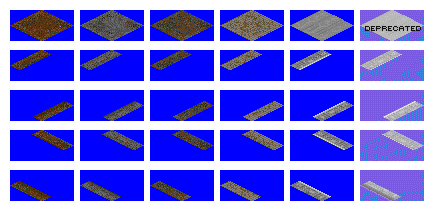
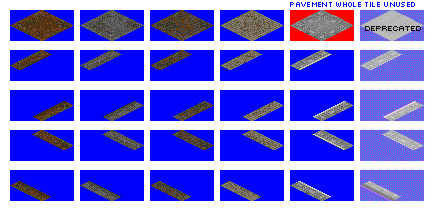
Codechange: force base set pavement tile for town non-track stations

Changed region(s): [[0.65, 0.0, 0.9455, 0.1909]]

diff --git a/src/station.py b/src/station.py
@@ -519,3 +519,11 @@ class SpriteLayout(object):
     @property
     def main_structure_sprites(self):
         return self.get_sprites_by_orientation(self._main_structure_sprites)
+
+    def get_nml_declaration_for_ground_sprite_whole_tile(self):
+        # as of September 2023 this is quite JFDI, there might be other cases for using base set sprites, but it was TMWFTLB to make generic
+        if self.facility_type.metaclass in ["town"]:
+            # hard-coded to pavement sprite from base set
+            return 1420
+        else:
+            return "spriteset_ground(LOAD_TEMP(" + str(global_constants.graphics_temp_storage["var_sprite_whole_tile"]) + "))"
